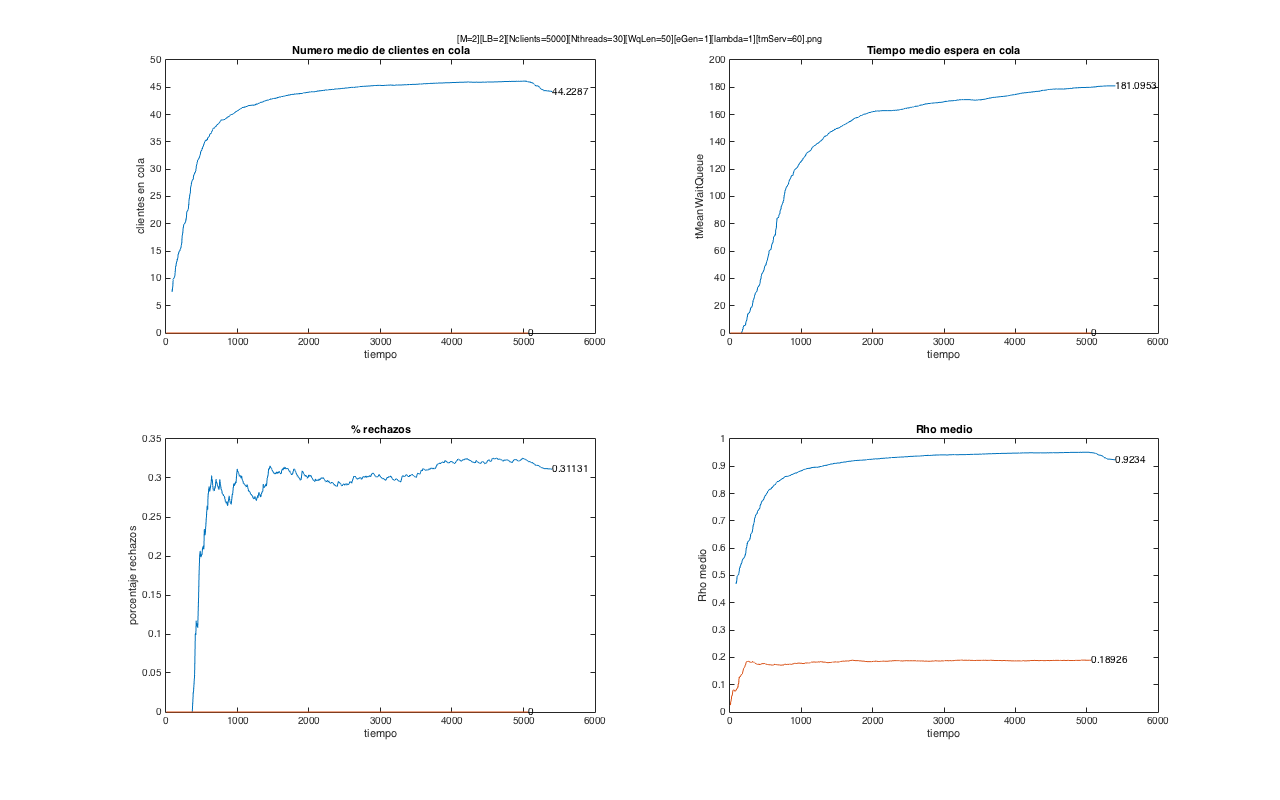
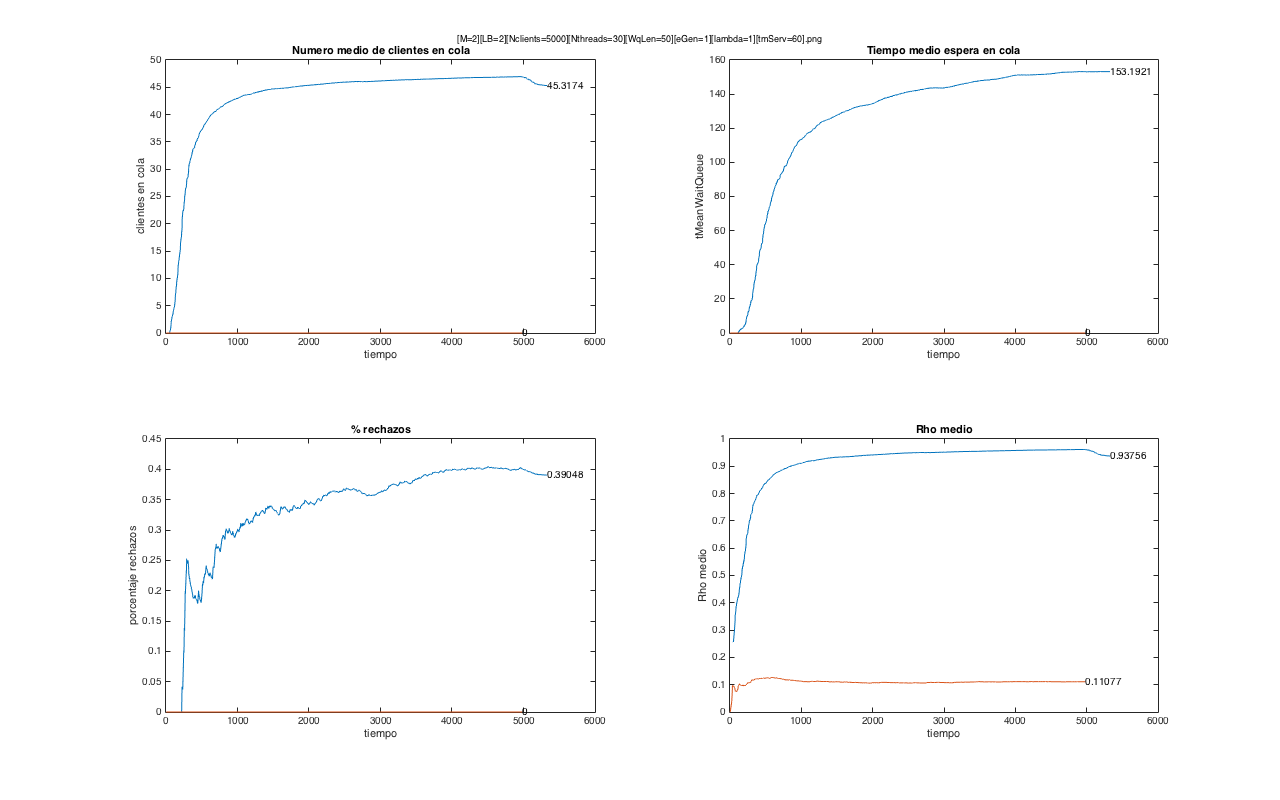
Added seed options and some additional simulations

diff --git a/Event/Generator/generador_2.m b/Event/Generator/generador_2.m
@@ -1,7 +1,7 @@
 function [salidas] = generador_2(lambda, t, nmax, seed, M, type)
     % Genera nmax llegadas con tiempos entre llegadas exponenciales y una
     % tasa de lambda llegadas por segundo y tiempos de servicio constantes t
-    
+    rng(seed);
     salidas = {};
     for machine=1:M
         salidas{machine}=[];
